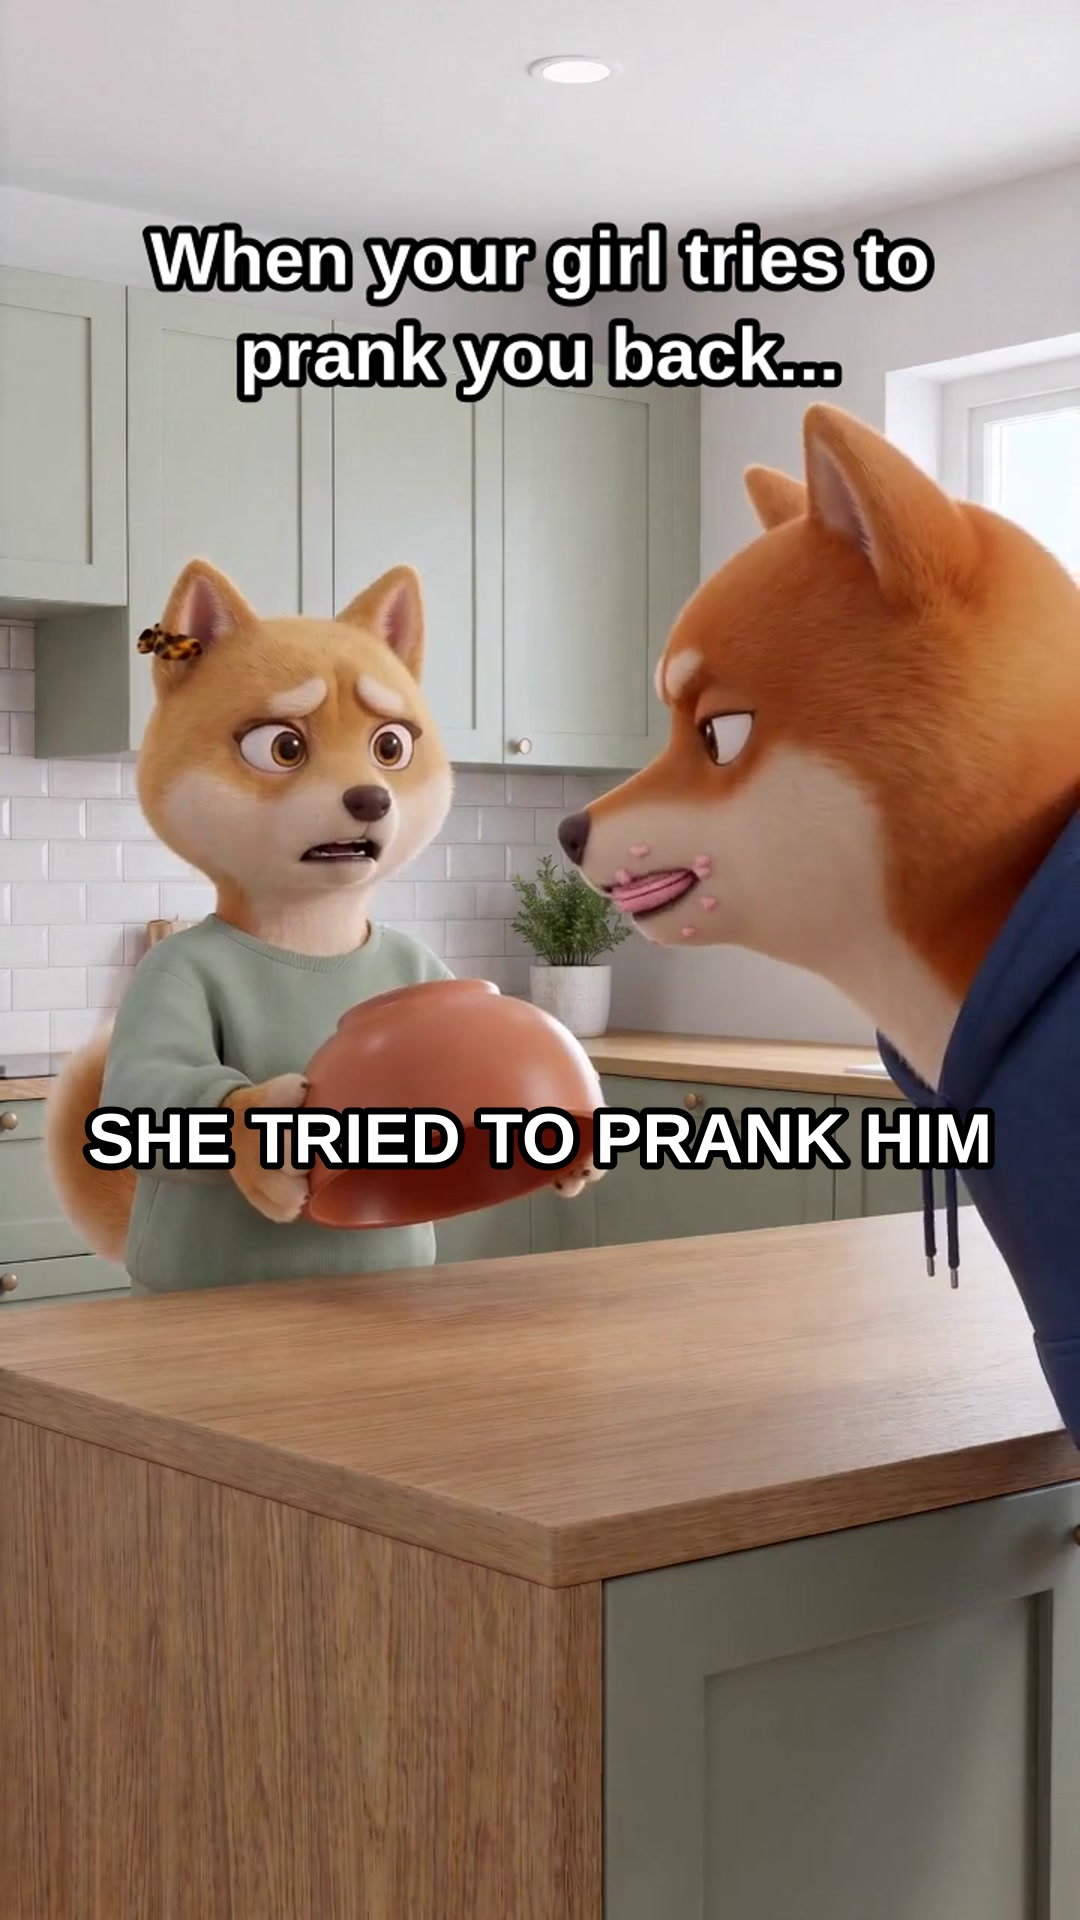
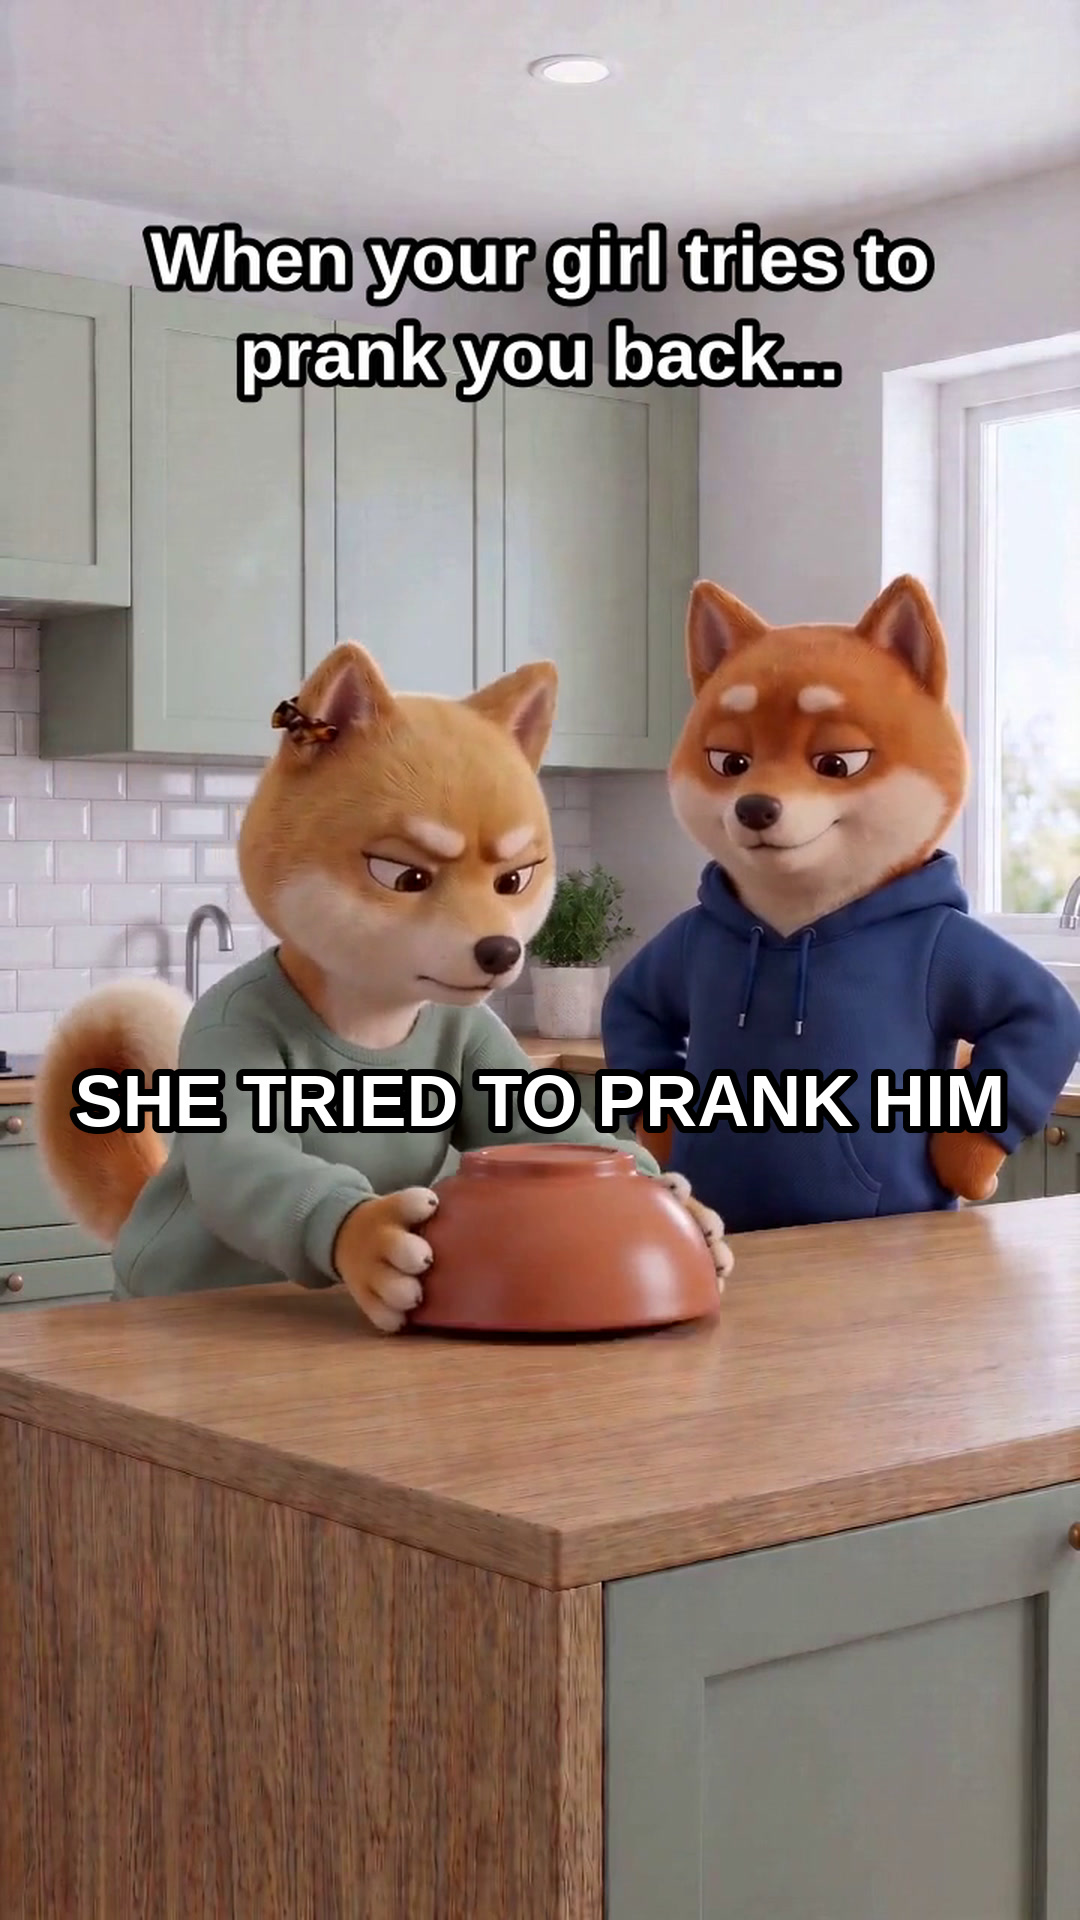
Upload kit: new bowl cover and notes for the fixed video
Claude-Session: https://claude.ai/code/session_01LDc9S6dqJqTGc3PUMdPDNq

diff --git a/posting/upload-kit-2026-11-07.md b/posting/upload-kit-2026-11-07.md
@@ -38,12 +38,12 @@ Tag them 👇
 ---
 
 ## 3. PRANK: "When your girl tries to prank you back..." (Don't touch the bowl v2)
-- **File:** `daily/2026-11-07/final_dont-touch-the-bowl_v2.mp4` (36.3 s, voices + sound, caption burned in)
+- **File:** `daily/2026-11-07/final_dont-touch-the-bowl_v2.mp4` (36.0 s, voices + sound, caption burned in; fixed version: check as prize, Kenji pockets it)
 - **Cover:** `posting/cover_dont-touch-the-bowl_v2.jpg` ("SHE TRIED TO PRANK HIM")
 
 **TikTok caption:**
 ```
-she really thought she had me 😌🪄 how did he do it?? #KenjiAndYuki #couplepranks #donttouchthebowl #shiba #fyp
+she really thought she had me 😌🪄 did you catch it?? #KenjiAndYuki #couplepranks #donttouchthebowl #shiba #fyp
 ```
 **Instagram caption:**
 ```
